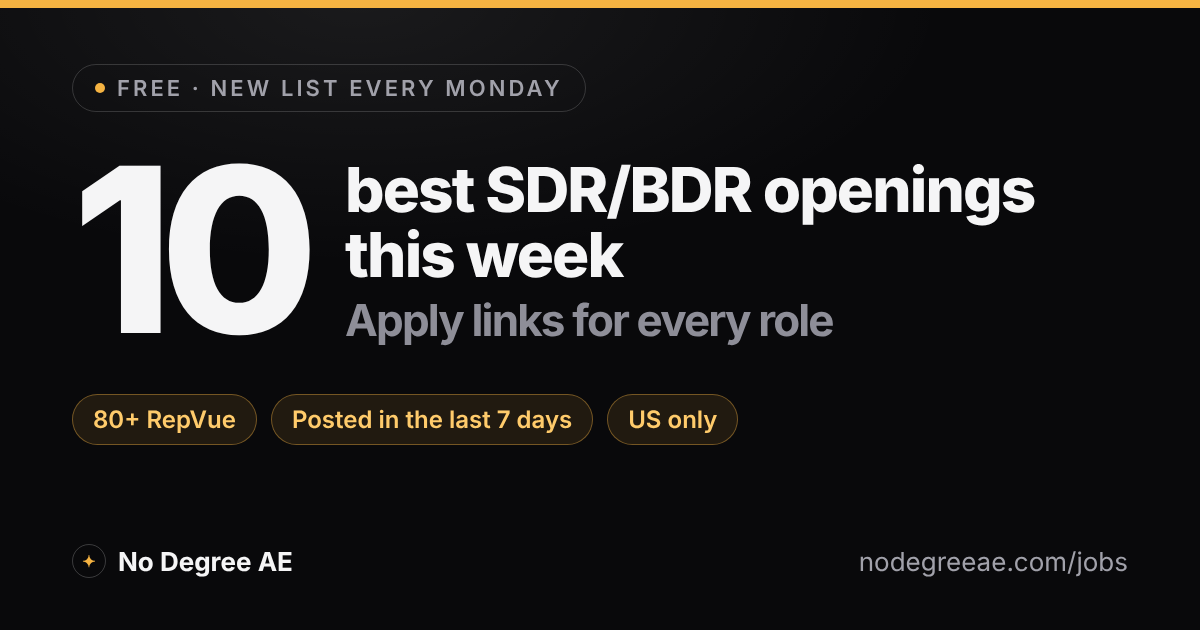
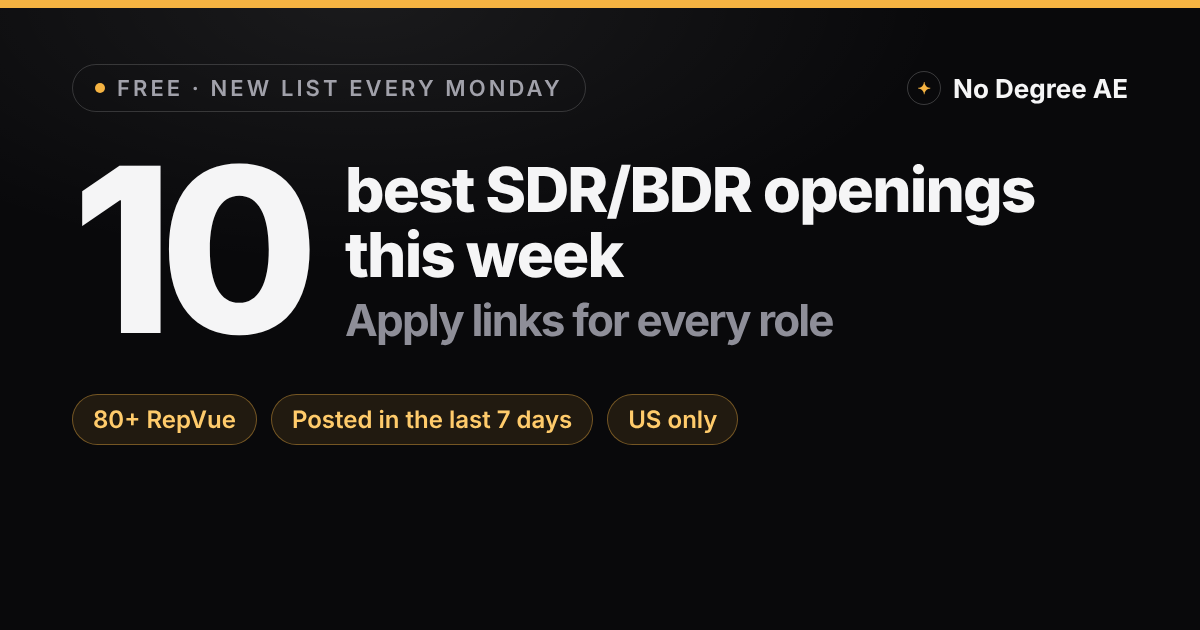
Link preview cards for homepage and jobs page

Changed region(s): [[0.7708, 0.1206, 0.9558, 0.181], [0.7092, 0.8746, 0.9558, 0.9048], [0.0617, 0.8746, 0.2467, 0.9349]]

diff --git a/index.html b/index.html
@@ -4,6 +4,13 @@
 <meta charset="utf-8">
 <meta name="viewport" content="width=device-width, initial-scale=1, viewport-fit=cover">
 <meta name="description" content="A tech sales job in 60-90 days. Degree or not, experience or not. 1:1 with a mid-market AE who did it at 19 with no degree.">
+<meta property="og:type" content="website">
+<meta property="og:url" content="https://nodegreeae.com/">
+<meta property="og:title" content="Land your first tech sales job in 60-90 days">
+<meta property="og:description" content="1:1 with a mid-market AE who broke in with no degree. Degree or not. Experience or not.">
+<meta property="og:image" content="https://nodegreeae.com/og-home.png">
+<meta name="twitter:card" content="summary_large_image">
+<meta name="twitter:image" content="https://nodegreeae.com/og-home.png">
 <meta name="theme-color" content="#09090B">
 <title>No Degree AE</title>
 <!-- Google tag (gtag.js) -->
